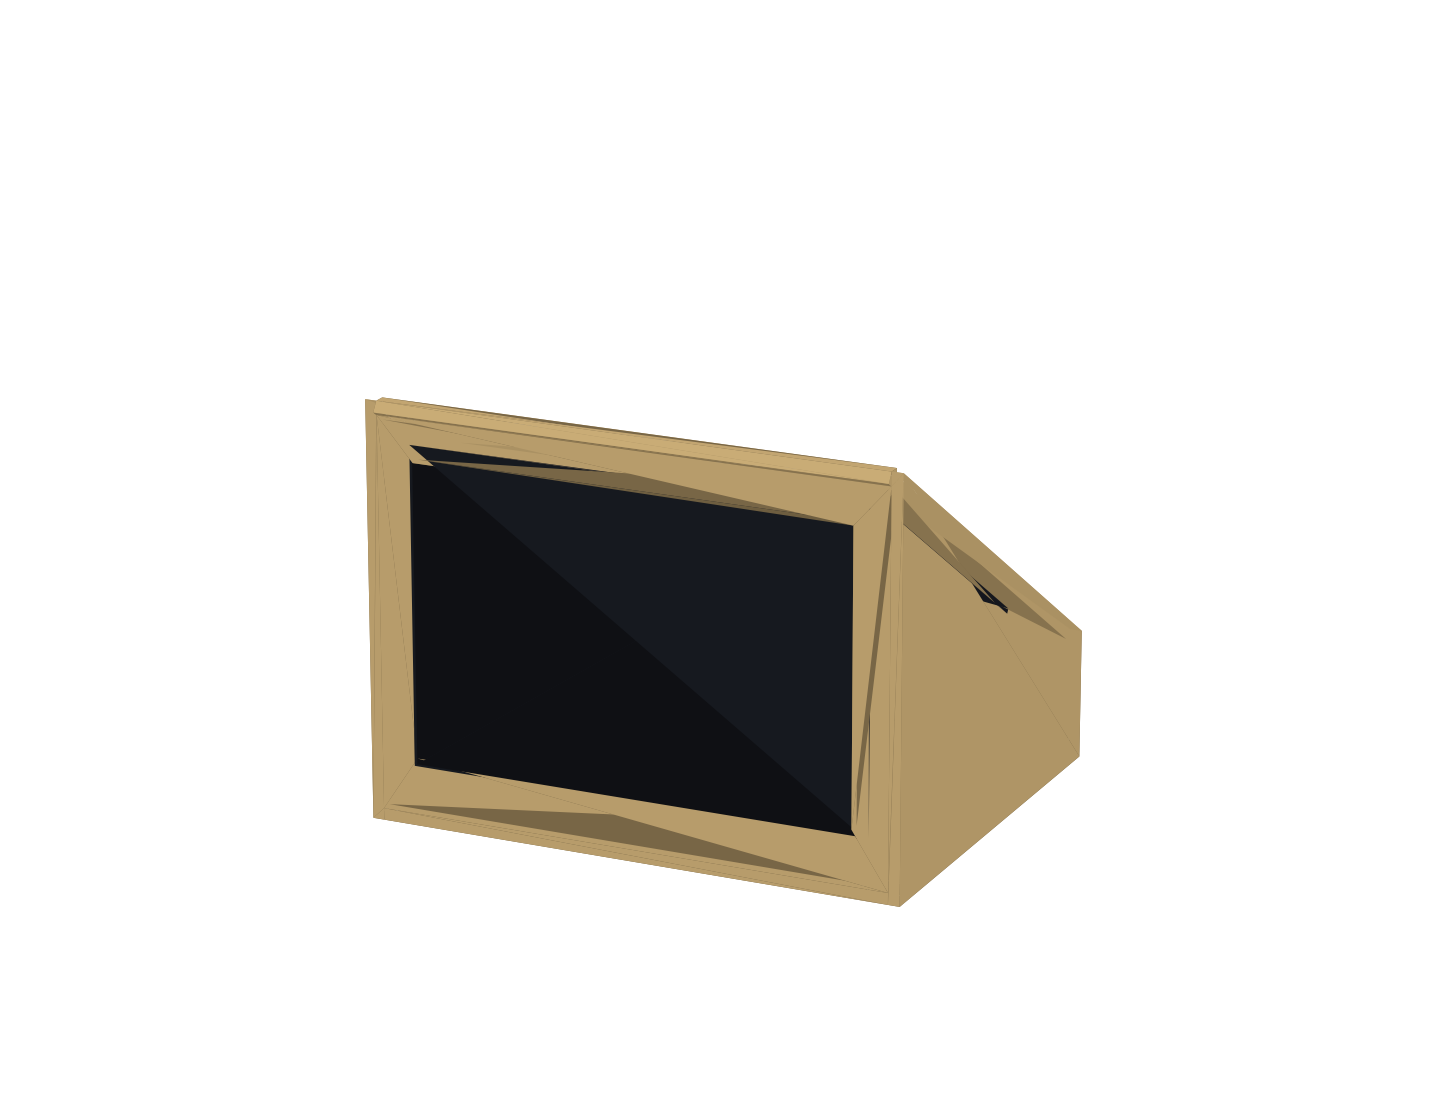
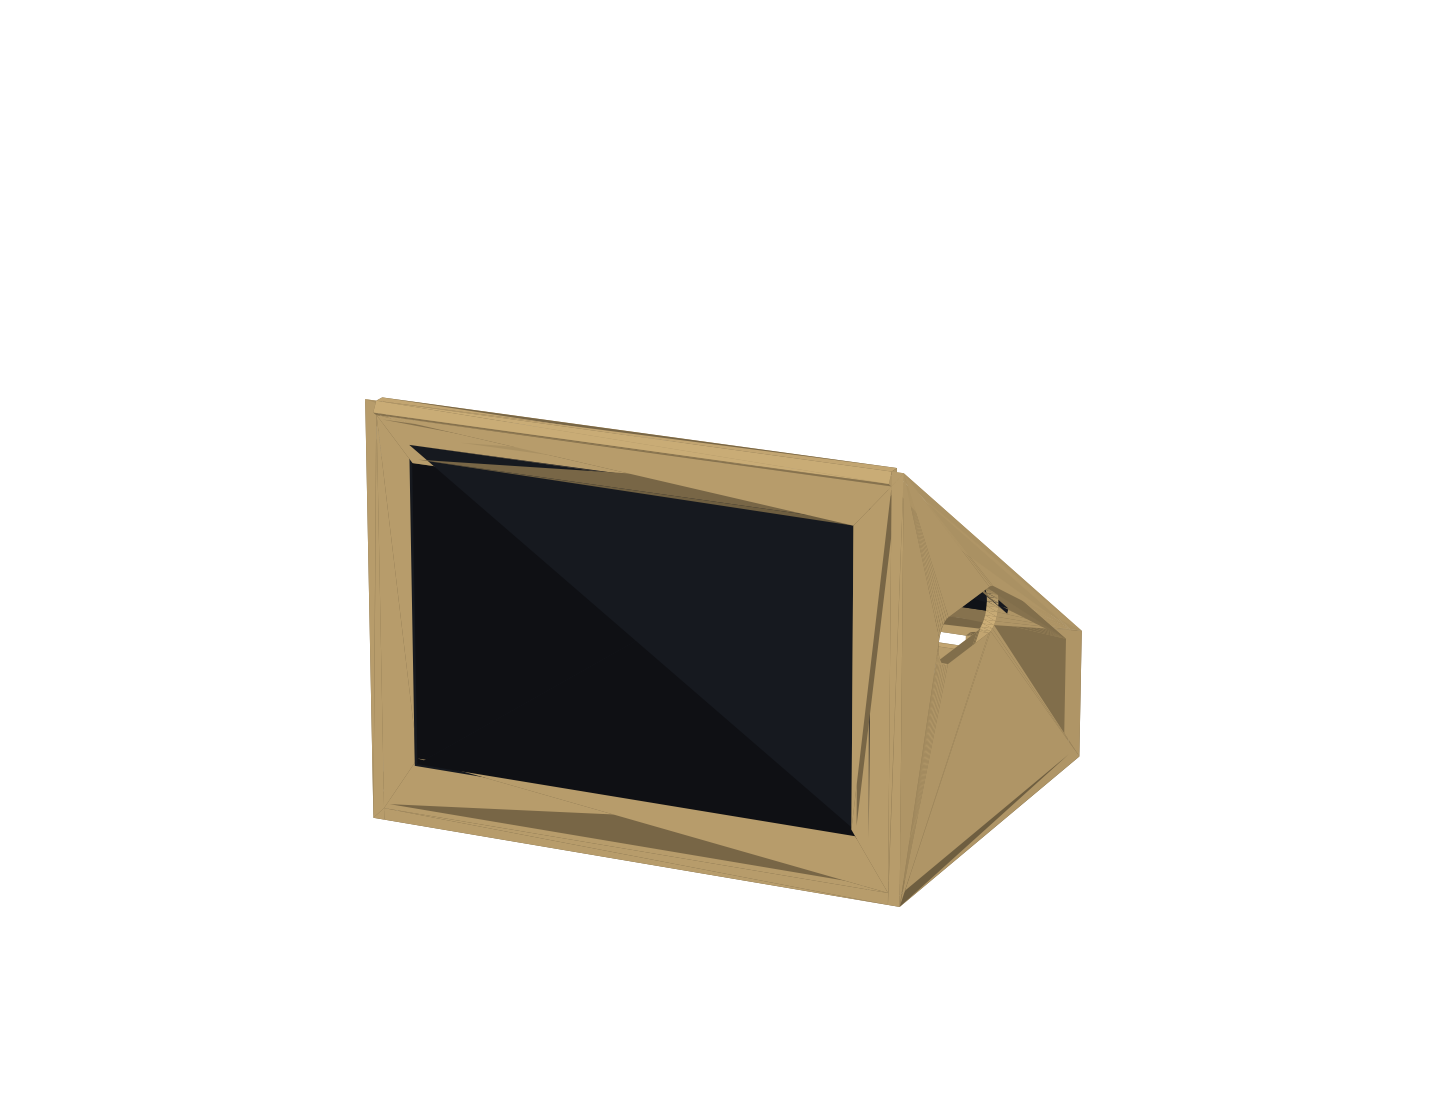
Add portability features to enclosure: hand-holes and transit lids
Rounded hand-hole through each side panel; 6mm magnetic transit lids
covering both screen windows (separate gigdash-lids.stl + exploded
render). README documents strap hardware and the no-wheels rationale.

https://claude.ai/code/session_011HSeguiJrJS28Vyt4HXAnJ

diff --git a/tools/enclosure_model.py b/tools/enclosure_model.py
@@ -24,6 +24,14 @@ WIN_W, WIN_H = 345.0, 225.0      # window cutout (smaller => retaining lip)
 VENT_W, VENT_H, VENT_N = 240.0, 12.0, 3   # rear vent slots
 GROMMET_R = 16.0                          # rear cable grommet radius
 
+# Hand-holes through both side panels (rounded slot, sized for gloved hand)
+SLOT_LEN, SLOT_H = 110.0, 35.0            # overall length x height
+SLOT_Y, SLOT_Z = 120.0, 172.5             # slot center (depth, height)
+
+# Transit lids: 6mm ply covers overlapping each screen window by 15mm/side
+LID_T = 6.0
+LID_W, LID_H = WIN_W + 30, WIN_H + 30
+
 OUT = Path(__file__).resolve().parent.parent / "docs" / "enclosure"
 
 # Slope geometry
@@ -95,6 +103,17 @@ def build():
     g.apply_transform(trimesh.transformations.rotation_matrix(np.pi / 2, [1, 0, 0]))
     g.apply_translation([W - 70, D - T / 2, 55])
     cuts.append(g)
+    # Hand-holes: one rounded slot through each side (single full-width cut;
+    # the interior at this position is empty air, so only the sides lose wood)
+    r = SLOT_H / 2
+    slot = [box((W + 20, SLOT_LEN - SLOT_H, SLOT_H),
+                (-10, SLOT_Y - (SLOT_LEN - SLOT_H) / 2, SLOT_Z - r))]
+    for end in (-1, 1):
+        c = trimesh.creation.cylinder(radius=r, height=W + 20)
+        c.apply_transform(trimesh.transformations.rotation_matrix(np.pi / 2, [0, 1, 0]))
+        c.apply_translation([W / 2, SLOT_Y + end * (SLOT_LEN - SLOT_H) / 2, SLOT_Z])
+        slot.append(c)
+    cuts += slot
 
     return trimesh.boolean.difference(
         [shell, trimesh.boolean.union(cuts, engine="manifold")], engine="manifold")
@@ -112,7 +131,19 @@ def screens():
     return [front, sloped]
 
 
-def render(mesh, views):
+def lids(offset=0.0):
+    """Transit lids covering both windows, optionally floated off the faces."""
+    stf, u, n = slope_basis()
+    front = box((LID_W, LID_T, LID_H),
+                ((W - LID_W) / 2, -LID_T - offset, T + (HF - T - WIN_H) / 2 - 15))
+    s0 = (SLOPE_LEN - WIN_H) / 2 - 15
+    sloped = box((LID_W, LID_H, LID_T), transform=stf)
+    sloped.apply_translation(
+        np.array([(W - LID_W) / 2, 0, HF]) + u * s0 + n * offset)
+    return [front, sloped]
+
+
+def render(mesh, views, extra=()):
     import matplotlib
     matplotlib.use("Agg")
     import matplotlib.pyplot as plt
@@ -120,6 +151,7 @@ def render(mesh, views):
 
     parts = [(mesh, np.array([0.82, 0.70, 0.48]))]          # plywood-ish
     parts += [(s, np.array([0.10, 0.11, 0.14])) for s in screens()]
+    parts += [(m, np.array([0.72, 0.58, 0.38])) for m in extra]
     tris_list, colors_list = [], []
     light = np.array([0.4, -0.55, 0.73])
     for part, base in parts:
@@ -154,9 +186,12 @@ if __name__ == "__main__":
     mesh.export(OUT / "gigdash-wedge.stl")
     print(f"slope: {SLOPE_DEG:.1f} deg from horizontal, panel {SLOPE_LEN:.0f}mm long")
     print(f"watertight: {mesh.is_watertight}, volume: {mesh.volume / 1e6:.2f} L of wood")
+    lid_meshes = lids()
+    trimesh.util.concatenate(lid_meshes).export(OUT / "gigdash-lids.stl")
     render(mesh, {
         "front-audience": (18, -65),
         "rear-performer": (32, 115),
         "side-profile": (2, 0),
     })
+    render(mesh, {"transit-lids": (18, -65)}, extra=lids(offset=70))
     print("wrote:", *[p.name for p in sorted(OUT.iterdir())])

diff --git a/docs/enclosure/README.md b/docs/enclosure/README.md
@@ -31,11 +31,12 @@ Outputs: `gigdash-wedge.stl` (open in any 3D viewer / slicer) and the
 
 | Qty | Panel | Size (mm) | Notes |
 |---|---|---|---|
-| 2 | Sides | trapezoid: 340 base, 320 front, 100 rear | the shape-defining pieces |
+| 2 | Sides | trapezoid: 340 base, 320 front, 100 rear | shape-defining; 110×35 hand-hole, center 120 from front / 172 up |
 | 1 | Front | 402 × 311 | 345×225 window, centered |
 | 1 | Slope | 402 × 405 | 345×225 window, centered |
 | 1 | Bottom | 402 × 340 | |
 | 1 | Back | 402 × 91 | 3 vent slots 240×12, Ø32 grommet hole |
+| 2 | Transit lids | 375 × 255 (6 mm ply) | cover the windows in transport; see below |
 
 Front/back/bottom/slope sit *between* the side panels (hence 402 wide).
 
@@ -54,5 +55,20 @@ Front/back/bottom/slope sit *between* the side panels (hence 402 wide).
   Pi 4 in kiosk duty won't need a fan.
 - **Finish**: round the slope/front meeting edge, matte black paint or
   Danish oil. Rubber feet underneath so it doesn't slide on stage.
-- Optional: hand-hole in each side panel for carrying; a hinged or
-  screwed rear hatch instead of a fixed back panel for easier service.
+- Optional: a hinged or screwed rear hatch instead of a fixed back panel
+  for easier service.
+
+## Portability
+
+- **Hand-holes** (modeled): one rounded 110×35 slot per side panel —
+  two-handed carry, or one-handed against the hip. Sand the edges well;
+  optionally line with split rubber edge trim.
+- **Transit lids** (modeled, `gigdash-lids.stl`): two 6 mm ply covers,
+  foam-lined (5 mm adhesive foam), overlapping each window by 15 mm per
+  side. Retain with 4 pairs of Ø10×3 rare-earth magnets per lid — epoxy
+  them into shallow recesses in the lid corners and the matching face.
+  They protect the glass in the car and stack flat.
+- **Shoulder strap**: two D-rings screwed to one side panel, clip-on
+  padded strap (hands stay free for guitar + pedalboard).
+- Deliberately no wheels/telescoping handle: loaded weight is ~4.5 kg.
+  For full-rig load-ins, strap the box to a folding hand truck instead.